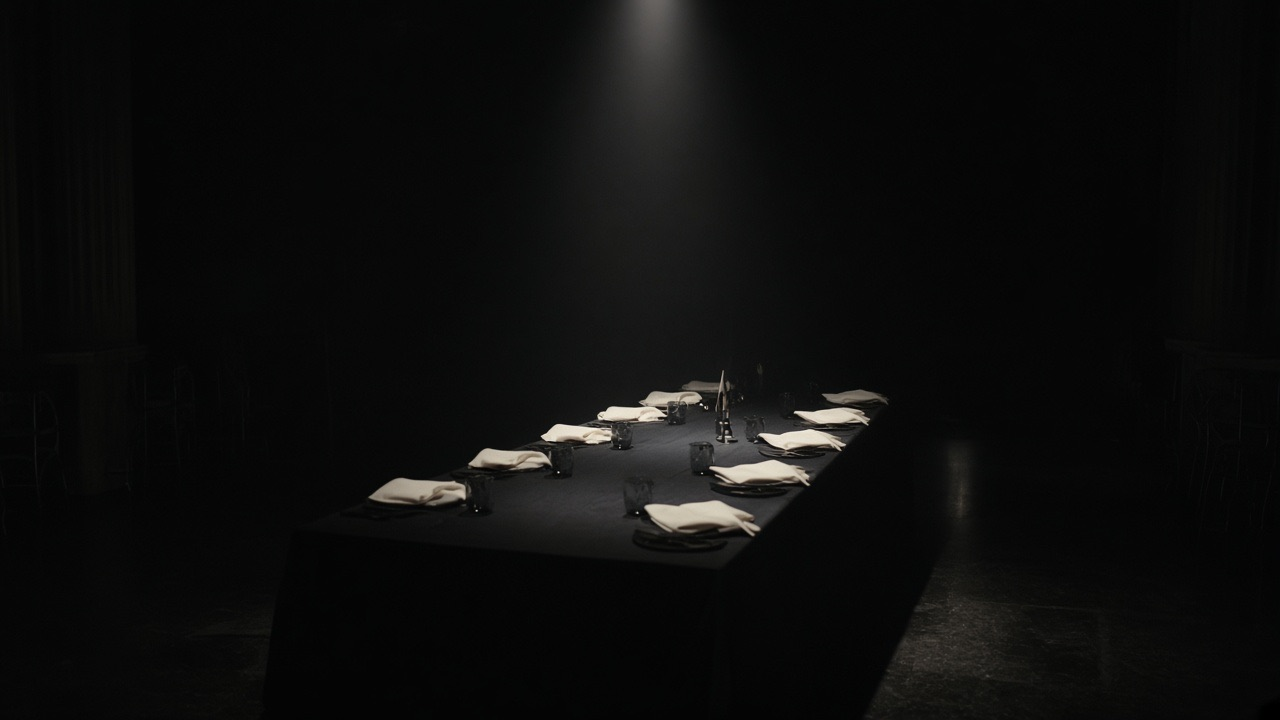
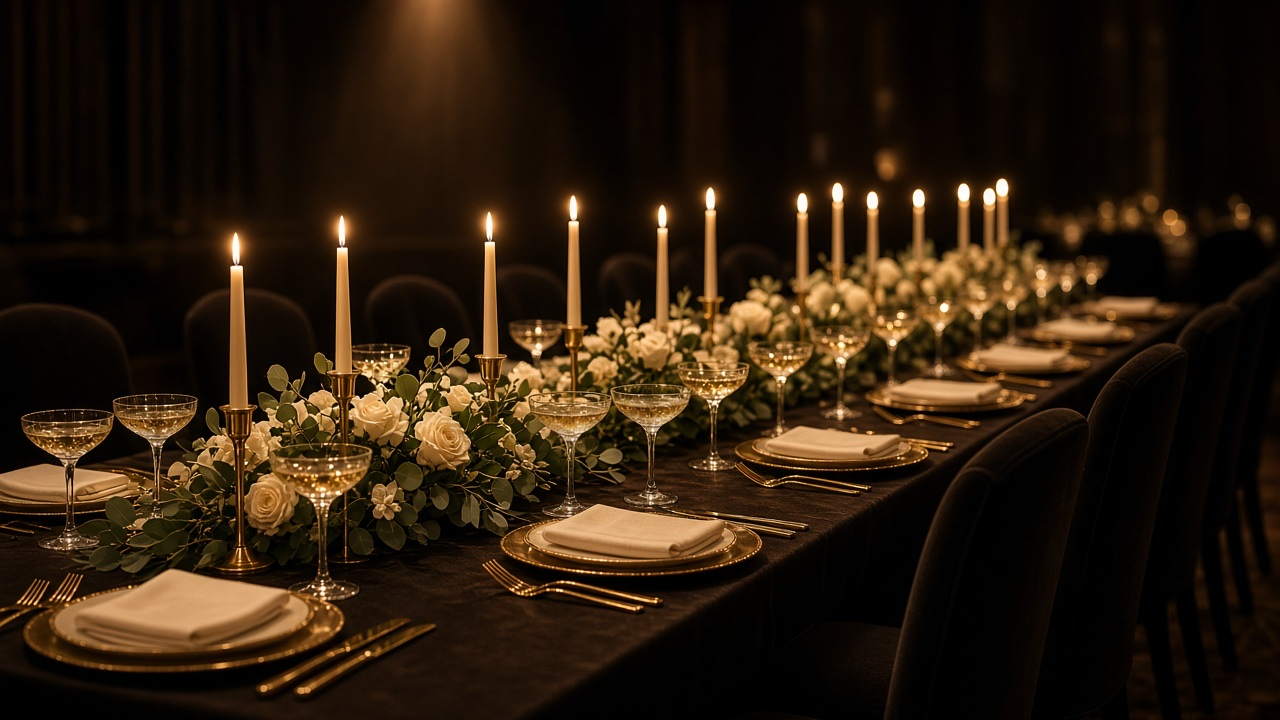
Warm Dark editorial into an espresso gala with visible champagne hairlines, so /kira reads as candlelight rather than mourning. (#70) (#71)

diff --git a/src/templates/dark-editorial/dark.css b/src/templates/dark-editorial/dark.css
@@ -1,18 +1,14 @@
 .dark-editorial {
-  --cream: #0b0b0b;
-  --cream-dark: #141414;
+  --cream: #161310;
+  --cream-dark: #221c18;
   --ink: #f3eee6;
-  --burgundy: #d6cfc4;
-  --gold: #8d877c;
+  --burgundy: #a67c52;
+  --gold: #c4b08a;
   position: relative;
   isolation: isolate;
   min-height: 100dvh;
   background: var(--cream);
   color: var(--ink);
-}
-
-.dark-editorial [aria-hidden] > span:nth-child(2) {
-  display: none;
 }
 
 .dark-hero {
@@ -41,9 +37,10 @@
   inset: 0;
   background: linear-gradient(
     to top,
-    rgb(11 11 11 / 0.94) 10%,
-    rgb(11 11 11 / 0.42) 52%,
-    rgb(11 11 11 / 0.55) 100%
+    rgb(22 19 16 / 0.88) 0%,
+    rgb(22 19 16 / 0.48) 26%,
+    rgb(22 19 16 / 0.1) 52%,
+    transparent 72%
   );
 }
 
@@ -54,17 +51,75 @@
   max-width: 42rem;
 }
 
+.dark-hero-copy h1 {
+  text-shadow: 0 2px 28px rgb(22 19 16 / 0.5);
+}
+
+.dark-hero-rule {
+  width: fit-content;
+}
+
+.dark-hero-rule > div,
+.dark-foil-gap > div {
+  gap: 0.7rem;
+}
+
+.dark-editorial .dark-foil span:first-child,
+.dark-editorial .dark-foil span:last-child {
+  width: 5.25rem;
+  height: 1.5px;
+}
+
+.dark-editorial .dark-foil span:first-child {
+  background: linear-gradient(to right, transparent, var(--gold));
+}
+
+.dark-editorial .dark-foil span:last-child {
+  background: linear-gradient(to left, transparent, var(--gold));
+}
+
+.dark-editorial .dark-foil span:nth-child(2) {
+  width: 0.55rem;
+  height: 0.55rem;
+  border-width: 1.5px;
+  border-color: var(--gold);
+  box-shadow: 0 0 14px color-mix(in srgb, var(--gold) 55%, transparent);
+}
+
+.dark-foil-gap {
+  display: flex;
+  justify-content: center;
+  padding: 2.5rem 1.5rem 0.75rem;
+}
+
+.dark-editorial header {
+  background-image: linear-gradient(to bottom, rgb(22 19 16 / 0.28), transparent);
+}
+
+.dark-editorial footer {
+  padding-bottom: 3.5rem;
+}
+
+.dark-editorial footer::after {
+  content: "";
+  display: block;
+  width: 6.5rem;
+  height: 1.5px;
+  margin: 1.5rem auto 0;
+  background: linear-gradient(to right, transparent, var(--gold), transparent);
+}
+
 .dark-tagline {
   position: relative;
   z-index: 2;
-  text-shadow: 0 1px 12px rgb(11 11 11 / 0.85);
+  text-shadow: 0 1px 12px rgb(22 19 16 / 0.85);
 }
 
 .dark-credit {
   font-size: 0.68rem;
   letter-spacing: 0.42em;
   text-transform: uppercase;
-  color: color-mix(in srgb, var(--ink) 68%, transparent);
+  color: color-mix(in srgb, var(--gold) 80%, var(--ink));
 }
 
 .dark-stills {
@@ -94,6 +149,47 @@
   color: color-mix(in srgb, var(--ink) 58%, transparent);
 }
 
+.dark-editorial .panel {
+  background: color-mix(in srgb, var(--cream-dark) 92%, var(--gold));
+  border: 1px solid color-mix(in srgb, var(--gold) 32%, transparent);
+  box-shadow: 0 18px 40px rgb(8 6 4 / 0.45);
+  backdrop-filter: none;
+}
+
+.dark-editorial .field {
+  background: color-mix(in srgb, var(--cream) 88%, black);
+  border: 1px solid color-mix(in srgb, var(--gold) 38%, transparent);
+  color: var(--ink);
+}
+
+.dark-editorial .field:focus {
+  border-color: var(--gold);
+}
+
+.dark-editorial .choice {
+  background: color-mix(in srgb, var(--cream-dark) 90%, var(--gold));
+  border: 1px solid color-mix(in srgb, var(--gold) 35%, transparent);
+  color: var(--ink);
+}
+
+.dark-editorial .choice-active {
+  background: var(--burgundy);
+  border-color: var(--gold);
+  color: var(--ink);
+}
+
+.dark-editorial .btn-gold {
+  background: var(--burgundy);
+  border: 1px solid color-mix(in srgb, var(--gold) 70%, white);
+  color: var(--ink);
+  box-shadow: 0 10px 24px color-mix(in srgb, var(--burgundy) 28%, transparent);
+}
+
+.dark-editorial .btn-gold:hover {
+  background: color-mix(in srgb, var(--burgundy) 82%, black);
+  box-shadow: 0 12px 28px color-mix(in srgb, var(--burgundy) 36%, transparent);
+}
+
 @keyframes dark-ken {
   from {
     transform: scale(1) translate3d(0, 0, 0);
@@ -111,9 +207,10 @@
   .dark-hero-veil {
     background: linear-gradient(
       to top,
-      rgb(11 11 11 / 0.97) 8%,
-      rgb(11 11 11 / 0.72) 48%,
-      rgb(11 11 11 / 0.62) 100%
+      rgb(22 19 16 / 0.9) 0%,
+      rgb(22 19 16 / 0.52) 30%,
+      rgb(22 19 16 / 0.12) 55%,
+      transparent 74%
     );
   }
 

diff --git a/src/events/kira.ts b/src/events/kira.ts
@@ -7,15 +7,15 @@ export const kira: EventContent = {
     one: "Кира",
   },
   kicker: "Вечерний гала",
-  tagline: "Чёрный зал, слоновая кость, длинный стол",
+  tagline: "Свечи, шампань, длинный стол",
   inviteLead:
-    "Вечер для тех, кто любит тишину кадра: свет, ткань и длинный стол.",
+    "Вечер для тех, кто любит тишину кадра: тёплый свет, ткань и длинный стол.",
   inviteBody:
-    "Сбор в холле, ужин и короткий сет. Приходите в чёрном или в слоновой кости.",
+    "Сбор в холле, ужин и короткий сет. Приходите в чёрном, слоновой кости или золоте.",
   event: {
     iso: "2026-12-05T19:00:00+03:00",
     gathering: "Сбор гостей с 18:30",
-    dressCode: "Black tie optional — чёрное и слоновая кость",
+    dressCode: "Black tie optional — чёрное, слоновая кость, золото",
   },
   venue: {
     name: "Зал «Ночь»",
@@ -27,17 +27,17 @@ export const kira: EventContent = {
   gallery: [
     {
       src: "/gallery/dark-editorial/de-01-hall.jpg",
-      alt: "Тёмный зал с длинным столом и одним светом",
-      caption: "Зал до гостей",
+      alt: "Длинный стол со свечами до прихода гостей",
+      caption: "Стол к вечеру",
     },
     {
       src: "/gallery/dark-editorial/de-02-glass.jpg",
-      alt: "Бокал слоновой кости на чёрном фоне",
+      alt: "Бокал шампанского на тёмном фоне",
       caption: "Свет на стекле",
     },
     {
       src: "/gallery/dark-editorial/de-03-place.jpg",
-      alt: "Чёрный стол, тарелка и одна тёмная роза",
+      alt: "Прибор со свечой и бокалом на тёмном столе",
       caption: "Место у окна",
     },
     {
@@ -47,7 +47,7 @@ export const kira: EventContent = {
     },
     {
       src: "/gallery/dark-editorial/de-05-roses.jpg",
-      alt: "Тёмные розы в стекле на чёрной стене",
+      alt: "Кремовые розы в стекле при свечах",
       caption: "Цветы к вечеру",
     },
   ],

diff --git a/src/templates/dark-editorial/DarkEditorial.tsx b/src/templates/dark-editorial/DarkEditorial.tsx
@@ -6,6 +6,7 @@ import { RsvpForm } from "@/components/RsvpForm";
 import { SiteHeader } from "@/components/SiteHeader";
 import { VenueMap } from "@/components/VenueMap";
 import type { EventContent, GalleryItem } from "@/content/types";
+import { GoldRule } from "@/components/Reveal";
 import { formatEventDate, formatEventTime } from "@/lib/datetime";
 import { partnerName } from "@/lib/names";
 import "./dark.css";
@@ -31,11 +32,14 @@ function FilmHero({ event, still }: { event: EventContent; still?: GalleryItem }
       <div className="dark-hero-veil" aria-hidden />
       <div className="dark-hero-copy">
         <p className="dark-credit">{event.kicker}</p>
-        <h1 className="font-serif mt-6 text-[clamp(3rem,12vw,7rem)] leading-[0.9] text-ink">
+        <div className="dark-hero-rule">
+          <GoldRule className="dark-foil mt-5" />
+        </div>
+        <h1 className="font-serif mt-5 text-[clamp(3rem,12vw,7rem)] leading-[0.9] text-ink">
           <span className="block">{event.couple.one}</span>
           {partner ? (
             <>
-              <span className="mt-2 block font-serif text-[clamp(1.1rem,3vw,1.7rem)] font-normal italic text-ink/55">
+              <span className="mt-2 block font-serif text-[clamp(1.1rem,3vw,1.7rem)] font-normal italic text-gold">
                 и
               </span>
               <span className="block">{partner}</span>
@@ -102,6 +106,9 @@ export function DarkEditorial({ event, preview }: { event: EventContent; preview
       <main className="relative z-10">
         <FilmHero event={event} still={heroStill} />
         {stills.length > 0 ? <FilmStills event={event} stills={stills} /> : null}
+        <div className="dark-foil-gap" aria-hidden>
+          <GoldRule className="dark-foil" />
+        </div>
         <Countdown event={event} />
         <Details event={event} />
         <VenueMap event={event} />

diff --git a/src/catalog.ts b/src/catalog.ts
@@ -50,7 +50,7 @@ export const liveSkins: LiveSkin[] = [
     id: "dark-editorial",
     name: "Dark editorial",
     audience: "Вечерний гала, fashion",
-    difference: "Почти чёрный холст, слоновая кость, кадры-стиллы и медленный ken-burns; декор — кадр и типографика",
+    difference: "Espresso, слоновая кость, champagne gold; кадры-стиллы, ken-burns и тонкие champagne-линии",
     demoSlug: "kira",
   }),
   liveSkin({

diff --git a/docs/templates-catalog.md b/docs/templates-catalog.md
@@ -8,7 +8,7 @@ Each row is a **skin**: different composition, motion, and audience — not a re
 | --- | --- | --- | --- | --- | --- |
 | 1 | `quiet-luxury` | Quiet luxury | Adult birthday | Cream, burgundy, gold; WebGL silk + grain; editorial serif; full-page scroll | Live |
 | 2 | `paper-envelope` | Paper envelope | Classic wedding | First screen is a seal/envelope; page “opens” into a card; paper texture, little motion | Live |
-| 3 | `dark-editorial` | Dark editorial | Evening gala, fashion-forward | Near-black canvas, ivory type, film stills, slow ken-burns, no cute ornaments | Live |
+| 3 | `dark-editorial` | Dark editorial | Evening gala, fashion-forward | Espresso canvas, ivory type, champagne gold, film stills, slow ken-burns, thin foil hairlines | Live |
 | 4 | `garden-daylight` | Garden daylight | Garden or countryside wedding | Cotton paper, botanical etchings, arch photos, daylight sans + soft serif | Live |
 | 5 | `minimal-swiss` | Minimal Swiss | City hall, design crowd | Grid, one accent color, huge type, almost no decoration, sharp rules | Idea |
 | 6 | `polaroid-story` | Polaroid story | Young couple | Tilted prints, handwritten captions, horizontal snap gallery, playful type | Idea |
